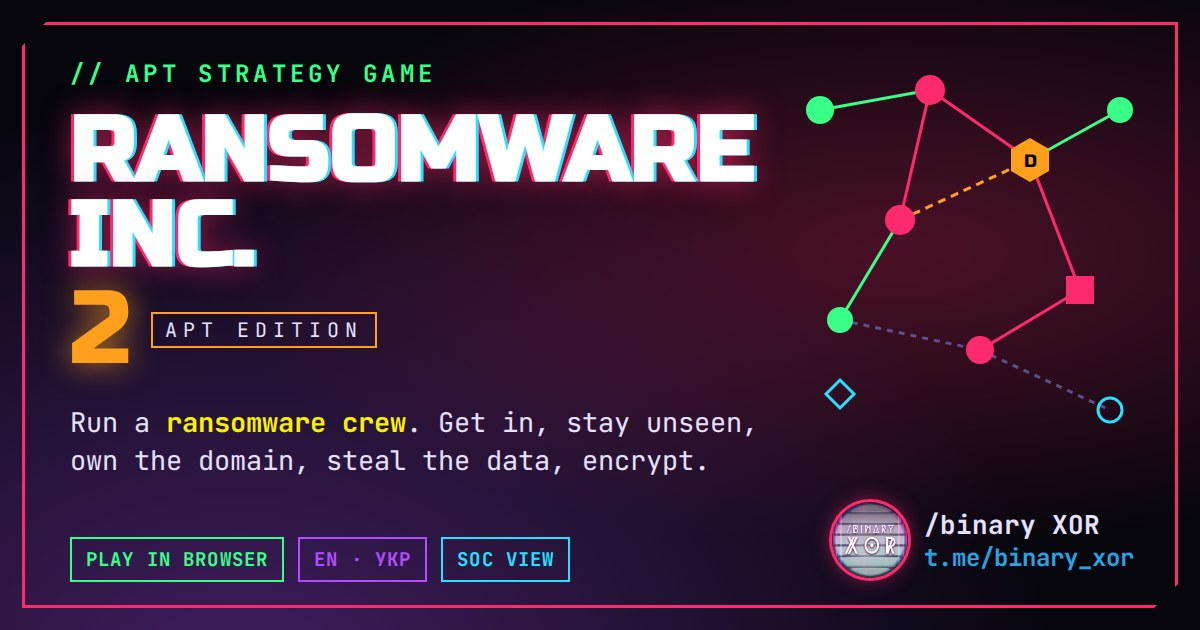
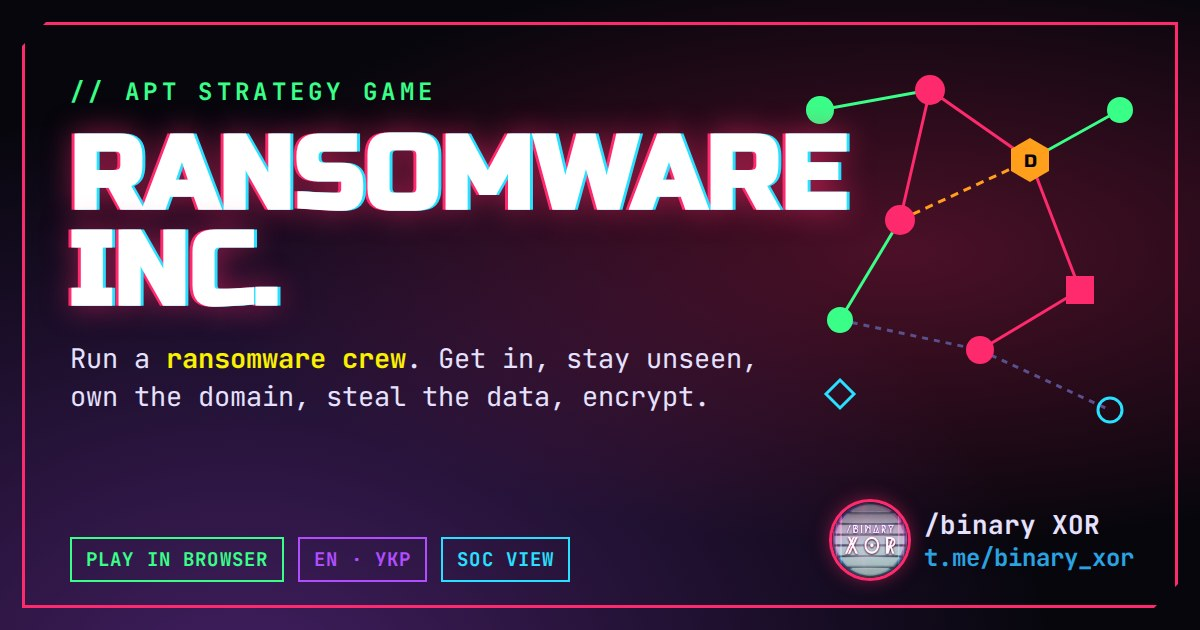
Drop the "2" branding: it is Ransomware Inc. again
Claude-Session: https://claude.ai/code/session_01V19evCSyG7sPXt4Em4CTEy

Changed region(s): [[0.0308, 0.0905, 0.7092, 0.6937], [0.0617, 0.7238, 0.5858, 0.754]]

diff --git a/tools/og.html b/tools/og.html
@@ -4,9 +4,9 @@
 html,body{margin:0;width:1200px;height:630px;overflow:hidden;background:#07060d;font-family:'JetBrains Mono',monospace;color:#e6e1ff}
 .bg{position:absolute;inset:0;background:radial-gradient(ellipse at 75% 40%,rgba(255,42,109,.28),transparent 55%),radial-gradient(ellipse at 20% 110%,rgba(177,77,255,.35),transparent 60%),#07060d}
 .frame{position:absolute;inset:22px;border:3px solid #ff2a6d;clip-path:polygon(24px 0,100% 0,100% calc(100% - 24px),calc(100% - 24px) 100%,0 100%,0 24px)}
-.l{position:absolute;left:70px;top:58px;width:720px}
+.l{position:absolute;left:70px;top:76px;width:720px}
 .kick{color:#39ff88;letter-spacing:.18em;font-weight:700;font-size:24px}
-h1{font-family:'Russo One';font-size:92px;line-height:.92;margin:20px 0 0;color:#fff;text-shadow:3px 0 #28e0ff,-3px 0 #ff2a6d,0 0 30px rgba(255,42,109,.6)}
+h1{font-family:'Russo One';font-size:104px;line-height:.92;margin:20px 0 0;color:#fff;text-shadow:3px 0 #28e0ff,-3px 0 #ff2a6d,0 0 30px rgba(255,42,109,.6)}
 .two{font-family:'Russo One';font-size:104px;color:#ff9f1c;text-shadow:0 0 30px rgba(255,159,28,.7);display:flex;align-items:center;gap:20px;line-height:1}
 .two small{font-family:'JetBrains Mono';font-size:20px;letter-spacing:.3em;color:#e6e1ff;border:2px solid #ff9f1c;padding:6px 12px;text-shadow:none}
 p{font-size:27px;line-height:1.4;margin:22px 0 0}
@@ -29,7 +29,7 @@ svg{position:absolute;right:40px;top:50px}
 <circle cx="120" cy="170" r="15" fill="#ff2a6d"/><circle cx="60" cy="270" r="13" fill="#39ff88"/><rect x="286" y="226" width="28" height="28" fill="#ff2a6d"/>
 <circle cx="200" cy="300" r="14" fill="#ff2a6d"/><circle cx="330" cy="360" r="12" fill="none" stroke="#28e0ff" stroke-width="3"/>
 <path d="M60 330 74 344 60 358 46 344z" fill="none" stroke="#28e0ff" stroke-width="3"/></g></svg>
-<div class="l"><div class="kick">// APT STRATEGY GAME</div><h1>RANSOMWARE INC.</h1><div class="two">2<small>APT EDITION</small></div>
+<div class="l"><div class="kick">// APT STRATEGY GAME</div><h1>RANSOMWARE INC.</h1>
 <p>Run a <b>ransomware crew</b>. Get in, stay unseen, own the domain, steal the data, encrypt.</p></div>
 <div class="tags"><span style="color:#39ff88">PLAY IN BROWSER</span><span style="color:#b14dff">EN · УКР</span><span style="color:#28e0ff">SOC VIEW</span></div>
 <div class="ch"><img src="../assets/binary-xor.png"><div><b>/binary XOR</b><i>t.me/binary_xor</i></div></div>

diff --git a/index.html b/index.html
@@ -7,20 +7,20 @@
   <meta name="mobile-web-app-capable" content="yes">
   <meta name="apple-mobile-web-app-capable" content="yes">
   <meta name="apple-mobile-web-app-status-bar-style" content="black-translucent">
-  <title>Ransomware Inc. 2</title>
+  <title>Ransomware Inc.</title>
   <meta name="description" content="A Plague Inc.-style strategy game: run a ransomware crew inside a company network. Learn why MFA, least privilege, segmentation, EDR and offline backups win.">
-  <meta property="og:title" content="Ransomware Inc. 2">
+  <meta property="og:title" content="Ransomware Inc.">
   <meta property="og:description" content="Run a ransomware crew: get in, spread unseen, own the domain, steal the data, encrypt. Can you beat the blue team?">
   <meta property="og:type" content="website">
-  <meta property="og:site_name" content="Ransomware Inc. 2">
+  <meta property="og:site_name" content="Ransomware Inc.">
   <meta property="og:url" content="https://morronel.github.io/ransomware_inc/">
   <meta property="og:image" content="https://morronel.github.io/ransomware_inc/assets/og-image.jpg">
   <meta property="og:image:type" content="image/jpeg">
   <meta property="og:image:width" content="1200">
   <meta property="og:image:height" content="630">
-  <meta property="og:image:alt" content="Ransomware Inc. 2: neon network map with encrypted hosts">
+  <meta property="og:image:alt" content="Ransomware Inc.: neon network map with encrypted hosts">
   <meta name="twitter:card" content="summary_large_image">
-  <meta name="twitter:title" content="Ransomware Inc. 2">
+  <meta name="twitter:title" content="Ransomware Inc.">
   <meta name="twitter:description" content="Run a ransomware crew: get in, spread unseen, own the domain, steal the data, encrypt. Can you beat the blue team?">
   <meta name="twitter:image" content="https://morronel.github.io/ransomware_inc/assets/og-image.jpg">
   <link rel="icon" href="assets/icon.svg" type="image/svg+xml">
@@ -38,7 +38,6 @@
     <div class="title-bg"></div>
     <div class="title-wrap">
       <div class="logo glitch" data-text="RANSOMWARE INC.">RANSOMWARE INC.</div>
-      <div class="logo-2">2<small>APT EDITION</small></div>
       <div class="tagline">// <span data-i18n="tagline"></span></div>
       <div class="title-menu">
         <button class="btn btn-primary" id="btn-play" data-i18n="play"></button>

diff --git a/js/share.js b/js/share.js
@@ -1,4 +1,4 @@
-// Ransomware Inc. 2 — end-of-run result card (canvas -> PNG) and share helpers
+// Ransomware Inc. — end-of-run result card (canvas -> PNG) and share helpers
 window.RI = window.RI || {};
 
 (function () {
@@ -41,7 +41,7 @@ window.RI = window.RI || {};
 
     c.textAlign = 'center'; c.textBaseline = 'alphabetic';
     c.fillStyle = '#39ff88'; c.font = '700 30px ' + mono;
-    c.fillText('// RANSOMWARE INC. 2', W / 2, 120);
+    c.fillText('// RANSOMWARE INC.', W / 2, 120);
 
     // outcome
     var title = RI.t(g.outcome + 'Title');
@@ -132,8 +132,8 @@ window.RI = window.RI || {};
     };
     if (!navigator.share) return fallback();
     canvas.toBlob(function (blob) {
-      var file = blob && typeof File !== 'undefined' ? new File([blob], 'ransomware-inc-2.png', { type: 'image/png' }) : null;
-      var data = { title: 'Ransomware Inc. 2', text: text, url: url };
+      var file = blob && typeof File !== 'undefined' ? new File([blob], 'ransomware-inc.png', { type: 'image/png' }) : null;
+      var data = { title: 'Ransomware Inc.', text: text, url: url };
       if (file && navigator.canShare && navigator.canShare({ files: [file] })) data.files = [file];
       navigator.share(data).catch(function () {});
     }, 'image/png');
@@ -141,7 +141,7 @@ window.RI = window.RI || {};
 
   RI.saveCard = function (canvas) {
     var a = document.createElement('a');
-    a.download = 'ransomware-inc-2-result.png';
+    a.download = 'ransomware-inc-result.png';
     a.href = canvas.toDataURL('image/png');
     document.body.appendChild(a); a.click(); a.remove();
   };

diff --git a/js/i18n.js b/js/i18n.js
@@ -1,4 +1,4 @@
-// Ransomware Inc. 2 — UI strings (EN / UA)
+// Ransomware Inc. — UI strings (EN / UA)
 window.RI = window.RI || {};
 
 RI.lang = 'en';
@@ -112,7 +112,7 @@ RI.STR = {
     tgShare: 'SEND TO TELEGRAM',
     again: 'PLAY AGAIN',
     menu: 'MENU',
-    shareText: 'My crew {name} hit "{target}" in Ransomware Inc. 2: {result}. Rank: {rank}. Can you beat it?',
+    shareText: 'My crew {name} hit "{target}" in Ransomware Inc.: {result}. Rank: {rank}. Can you beat it?',
     resWin: '{pct}% encrypted',
     resExtort: 'double extortion with {loot} GB stolen',
     resLose: 'contained at {pct}% encrypted',
@@ -261,7 +261,7 @@ RI.STR = {
     tgShare: 'НАДІСЛАТИ В TELEGRAM',
     again: 'ЩЕ РАЗ',
     menu: 'МЕНЮ',
-    shareText: 'Моя команда {name} атакувала «{target}» у Ransomware Inc. 2: {result}. Ранг: {rank}. Зможеш краще?',
+    shareText: 'Моя команда {name} атакувала «{target}» у Ransomware Inc.: {result}. Ранг: {rank}. Зможеш краще?',
     resWin: 'зашифровано {pct}%',
     resExtort: 'подвійне вимагання, вкрадено {loot} ГБ',
     resLose: 'стримано на {pct}% шифрування',

diff --git a/css/style.css b/css/style.css
@@ -1,4 +1,4 @@
-/* Ransomware Inc. 2 — neon underground */
+/* Ransomware Inc. — neon underground */
 :root {
   --bg: #07060d;
   --bg2: #0e0b1a;
@@ -287,9 +287,6 @@ h2.danger { color: var(--pink); }
 
 /* ------------------------------------------------ v2 additions */
 :root { --orange: #ff9f1c; }
-.logo-2 { font-family: var(--display); font-size: clamp(40px, 13vw, 64px); line-height: 1; color: var(--orange); margin-top: 4px;
-  text-shadow: 0 0 22px rgba(255,159,28,0.65); display: flex; align-items: center; justify-content: center; gap: 10px; }
-.logo-2 small { font-family: var(--mono); font-size: 12px; letter-spacing: 0.3em; color: var(--text); border: 1px solid var(--orange); padding: 4px 8px; text-shadow: none; }
 
 .access { font-style: normal; font-family: var(--mono); font-size: 9px; font-weight: 800; letter-spacing: 0.1em; padding: 2px 6px; border-radius: 4px;
   vertical-align: middle; border: 1px solid currentColor; text-shadow: none; }

diff --git a/js/data.js b/js/data.js
@@ -1,4 +1,4 @@
-// Ransomware Inc. 2 — game content (bilingual: en / uk)
+// Ransomware Inc. — game content (bilingual: en / uk)
 // Every mechanic is an abstract game rule. Upgrades carry a flavour name and a broad tactic category;
 // real-world labels can be attached in js/labels.js. Nothing here describes a real procedure, tool or command.
 window.RI = window.RI || {};

diff --git a/js/labels.js b/js/labels.js
@@ -1,4 +1,4 @@
-// Ransomware Inc. 2 — real-world labels (fill these in yourself)
+// Ransomware Inc. — real-world labels (fill these in yourself)
 //
 // Every entry vector and upgrade in the game has a flavour name. Here you can attach the real-world
 // framework label it stands for, e.g. a technique ID and its official name, a CWE number or an OWASP category.

diff --git a/js/game.js b/js/game.js
@@ -1,4 +1,4 @@
-// Ransomware Inc. 2 — simulation engine (no DOM; runs headless in node for balance tests)
+// Ransomware Inc. — simulation engine (no DOM; runs headless in node for balance tests)
 window.RI = window.RI || {};
 
 (function () {

diff --git a/js/map.js b/js/map.js
@@ -1,4 +1,4 @@
-// Ransomware Inc. 2 — network map renderer (canvas)
+// Ransomware Inc. — network map renderer (canvas)
 window.RI = window.RI || {};
 
 (function () {

diff --git a/js/ui.js b/js/ui.js
@@ -1,4 +1,4 @@
-// Ransomware Inc. 2 — screens, HUD, input and glue
+// Ransomware Inc. — screens, HUD, input and glue
 window.RI = window.RI || {};
 
 (function () {

diff --git a/js/config.js b/js/config.js
@@ -1,4 +1,4 @@
-// Ransomware Inc. 2 — global config
+// Ransomware Inc. — global config
 window.RI = window.RI || {};
 
 RI.CONFIG = {

diff --git a/README.md b/README.md
@@ -1,4 +1,4 @@
-# Ransomware Inc. 2 — APT Edition
+# Ransomware Inc.
 
 A Plague Inc.-style mobile browser strategy game. You run a ransomware crew inside a fictional company: get initial access, spread quietly, climb from USER to ADMIN to DOMAIN control, steal the crown jewels, then encrypt enough of the network before the blue team contains you.
 
